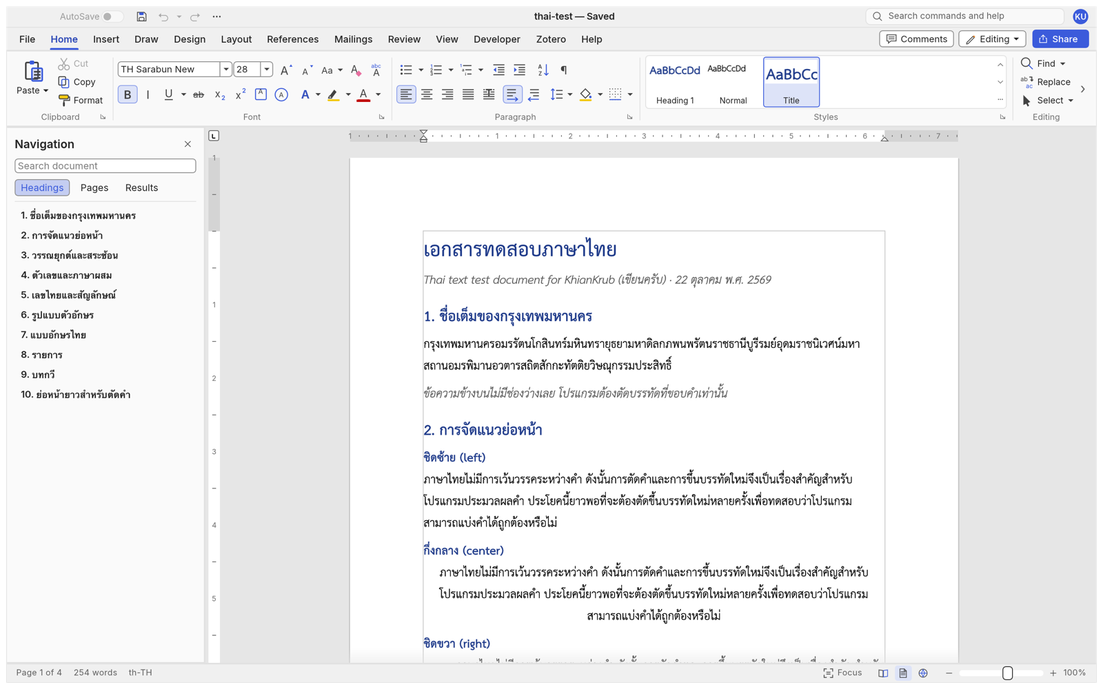
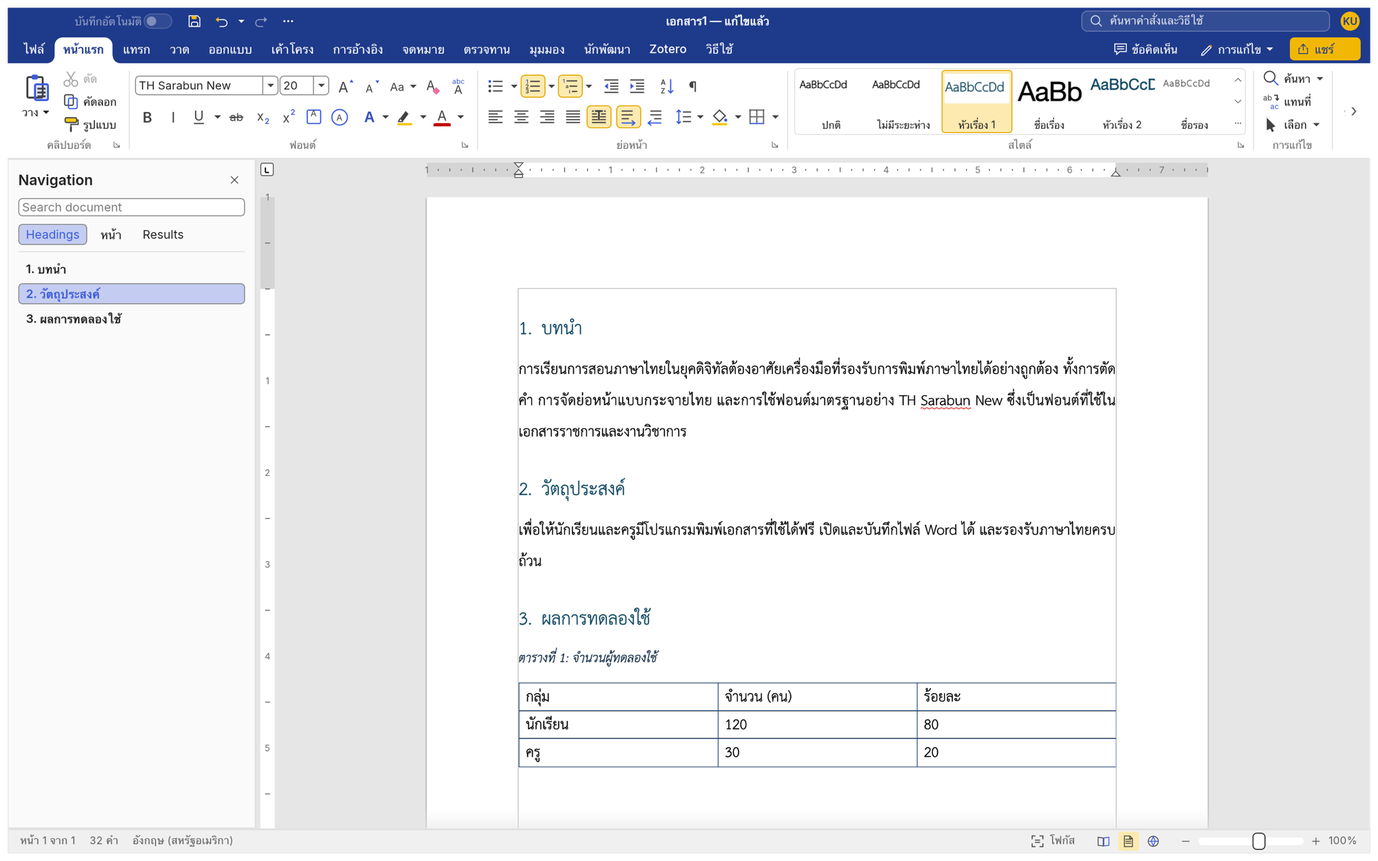
New README: what's new, with pictures
Opens with the Thai menus and the navy and gold look, then What's new
(Thai menus, new look, Modify Style, Thai captions, table borders, numbered
headings and multilevel lists, smaller changes). Older sections move under
Earlier changes, after Download and install. New screenshots with
ATTRIBUTION rows.

diff --git a/README.md b/README.md
@@ -17,12 +17,79 @@
 </p>
 
 <p align="center">
-  <img src="docs/images/khiankrub-hero.png" alt="KhianKrub with a Thai test document open: the Home tab of the ribbon, the Navigation pane listing the document's Thai headings, and a page with Thai text in TH Sarabun New" width="100%">
+  <img src="docs/images/khiankrub-hero.png" alt="KhianKrub with Thai menus: a navy title bar and tab strip with Thai tab names, the white Home ribbon with gold highlights, the Navigation pane listing numbered Thai headings 1. บทนำ, 2. วัตถุประสงค์, 3. ผลการทดลองใช้, and a page in TH Sarabun New with a table captioned ตารางที่ 1" width="100%">
 </p>
 
 KhianKrub is a fork of [WordCraft](https://github.com/storytold/wordcraft) by the ArtCraft team, adapted for Thai
 users by Chanon Sarasuk. It opens, edits and saves Word documents (`.docx`), with a ribbon laid out like Microsoft
-Word's, and adds what Thai writing needs. It is not affiliated with or endorsed by the ArtCraft team.
+Word's, and adds what Thai writing needs. It is made with schools in mind: students and teachers who need a free
+program for reports, worksheets and theses in Thai. It is not affiliated with or endorsed by the ArtCraft team.
+
+This is a one-person project and still young. If something doesn't work, please
+[open an issue](https://github.com/chanonss/khiankrub/issues); every report helps.
+
+โปรแกรมนี้ทำขึ้นเพื่อนักเรียน นักศึกษา และครู ที่ต้องการโปรแกรมพิมพ์เอกสารภาษาไทยที่ใช้ได้ฟรี ยังอยู่ระหว่างพัฒนา
+หากพบปัญหา แจ้งได้ที่หน้า [Issues](https://github.com/chanonss/khiankrub/issues) ขอบคุณทุกความคิดเห็นครับ
+
+## What's new
+
+### Thai menus
+
+The ribbon, the title bar, the File page and the right-click menus can be in Thai. Choose **ไทย** in
+File › Options › Language › Interface language; on a Mac or PC set to Thai, KhianKrub opens in Thai by itself.
+Dialogs are still in English for now.
+
+<p align="center">
+  <img src="docs/images/khiankrub-ribbon-th.png" alt="The Home ribbon in Thai: tabs ไฟล์, หน้าแรก, แทรก, วาด, ออกแบบ, เค้าโครง, การอ้างอิง and the groups คลิปบอร์ด, ฟอนต์, ย่อหน้า, สไตล์" width="100%">
+  <img src="docs/images/khiankrub-ribbon-en.png" alt="The same Home ribbon in English: File, Home, Insert, Draw, Design, Layout, References and the groups Clipboard, Font, Paragraph, Styles" width="100%">
+</p>
+
+### A new look: navy and gold
+
+The title bar and tabs are in KhianKrub's navy, from the app icon. The active tab joins the white ribbon with curved
+corners, and buttons light up in the icon's gold when you point at them or turn them on. The dark theme follows the
+same colours.
+
+<p align="center">
+  <img src="docs/images/khiankrub-dark.png" alt="KhianKrub in the dark theme, with Thai menus, the Navigation pane and a Thai document" width="100%">
+</p>
+
+### Styles for Thai documents
+
+<table>
+<tr>
+<td width="62%" valign="top"><img src="docs/images/khiankrub-modify-style.png" alt="The Modify Style window: a list of pages with icons (General, Font, Font Effects, Position, Indents and Spacing, Alignment, Text Flow, Tabs, Borders and Shading, Numbering), the Font page with Latin text and Thai text side by side, a preview, and OK, Apply and Cancel" width="100%"><p align="center"><sub><b>Modify Style</b>, redesigned with ten pages. The font and size for Latin and Thai text side by side, so a heading can be TH Sarabun New 18 pt in Thai. <b>Apply</b> shows the change without closing the window.</sub></p></td>
+<td width="38%" valign="top"><img src="docs/images/khiankrub-caption.png" alt="The Caption window with the label ภาพที่ and the caption ภาพที่ 1" width="100%"><p align="center"><sub><b>Thai captions:</b> ภาพที่ and ตารางที่ are ready to use for pictures and tables.</sub></p>
+<img src="docs/images/khiankrub-borders-menu.png" alt="Table Design, Borders menu with a picture of each border, including Diagonal Down Border and Diagonal Up Border, the pointed item lit in gold" width="100%"><p align="center"><sub><b>Table borders</b> with a picture for each, now with diagonal lines, applied to the selected cells.</sub></p></td>
+</tr>
+</table>
+
+### Numbered headings and multilevel lists
+
+<table>
+<tr>
+<td width="45%" valign="top"><img src="docs/images/khiankrub-define-list.png" alt="The Define New Multilevel List window: levels 1 to 9, a preview, number format, Link level to style, font, position, and a name with Save in My Lists" width="100%"></td>
+<td width="55%" valign="top">
+
+- **Link level to style:** Heading 1 numbers itself (1., 2., 3.) and the number takes the heading's look.
+- **My Lists:** name a list you made and use it again in any document.
+- The **Navigation pane** shows each heading with its number, as on the page.
+- **Backspace or Delete** at the start of a numbered line removes the number and returns to Normal.
+
+</td>
+</tr>
+</table>
+
+### Smaller changes
+
+- **TH Sarabun New** is the default font for new documents. If it isn't installed, KhianKrub offers the free
+  download page.
+- **Header and Footer** styles in the Styles gallery.
+- **Thai Distribution** on the floating formatting bar that appears over selected text.
+- **Several windows:** open more than one document at a time, each in its own window.
+- Opening a file goes straight to the document; the Recover panel no longer gets in the way.
+- **Windows and Mac downloads are built on GitHub.** The Mac download is one app for both Apple silicon and Intel
+  Macs, from the next release on.
 
 ## Made for Thai
 
@@ -32,8 +99,8 @@ Word's, and adds what Thai writing needs. It is not affiliated with or endorsed 
 <td width="50%" valign="top"><img src="docs/images/khiankrub-thai-lists.png" alt="Lists numbered with bullets, Thai digits ๑ ๒ ๓ ๔ and Thai letters ก ข ค" width="100%"><p align="center"><sub><b>Thai list numbering.</b> Thai digits (๑ ๒ ๓), Thai letters (ก ข ค) and Thai counting words, matching Word.</sub></p></td>
 </tr>
 <tr>
-<td width="50%" valign="top"><img src="docs/images/khiankrub-page-thumbnails.png" alt="The Navigation pane's Pages tab with a thumbnail of each page, the first outlined in blue" width="100%"><p align="center"><sub><b>Navigation.</b> Thai headings and page thumbnails; click one to go there.</sub></p></td>
-<td width="50%" valign="top"><img src="docs/images/khiankrub-file-menu.png" alt="The File menu: a blue sidebar with an icon beside each entry, and template thumbnails" width="100%"><p align="center"><sub><b>File menu.</b> New, open, recover, save, print and export to PDF.</sub></p></td>
+<td width="50%" valign="top"><img src="docs/images/khiankrub-page-thumbnails.png" alt="The Navigation pane's Pages tab with a thumbnail of each page" width="100%"><p align="center"><sub><b>Navigation.</b> Thai headings and page thumbnails; click one to go there.</sub></p></td>
+<td width="50%" valign="top"><img src="docs/images/khiankrub-file-menu.png" alt="The File menu: a sidebar with an icon beside each entry, and template thumbnails" width="100%"><p align="center"><sub><b>File menu.</b> New, open, recover, save, print and export to PDF.</sub></p></td>
 </tr>
 </table>
 
@@ -42,107 +109,17 @@ Word's, and adds what Thai writing needs. It is not affiliated with or endorsed 
 - **Thai list numbers, letters and counting words** in lists and page numbers.
 - **Text boundaries:** a thin grey outline around the text area of each page (View › Show › Text Boundaries).
 - **View only** mode in the Editing menu: read a document without changing it by accident.
-- **Thai menus** (File › Options › Language): the ribbon, the File page and right-click menus in Thai; dialogs are
-  still in English. Thai text in documents, Thai fonts and Thai typing fully supported.
+- Thai text in documents, Thai fonts and Thai typing fully supported.
 
 Everything that differs from the original, newest first, is in [FORK-CHANGES.md](FORK-CHANGES.md).
-
-## Before and after
-
-### The ribbon, sized and spaced like Word's
-
-Larger icons, and the buttons centred in each group with even spacing, on every tab.
-
-<p align="center">
-  <img src="docs/images/khiankrub-ribbon-before-after.png" alt="The Home ribbon before, with small icons sitting at the top of each group, and after, with larger icons centred in their groups" width="100%">
-</p>
-
-### Bugs fixed
-
-<table>
-<tr>
-<td width="35%" valign="top"><img src="docs/images/khiankrub-fix-navigation.png" alt="The Navigation pane before, listing Thai headings as question marks, and after, listing them in Thai" width="100%"><p align="center"><sub><b>Thai headings</b> in the Navigation pane showed as <code>?</code>; they now show in Thai.</sub></p></td>
-<td width="65%" valign="top"><img src="docs/images/khiankrub-fix-space-dots.png" alt="Thai text with formatting marks on: before, the dot for each space floats near the top of the letters; after, it sits in the middle" width="100%"><p align="center"><sub><b>Space marks on Thai text</b> (with ¶ on) floated near the top of the letters; they now sit in the middle.</sub><br><br></p>
-<img src="docs/images/khiankrub-fix-paragraph-dialog.png" alt="The Paragraph dialog's Alignment box: before it shows the raw text thaidistribute, after it shows Thai Distribution" width="70%"><p align="center"><sub><b>Paragraph dialog</b> showed the raw name <code>thaidistribute</code>; it now says Thai Distribution and keeps it.</sub></p></td>
-</tr>
-<tr>
-<td colspan="2"><img src="docs/images/khiankrub-fix-recover.png" alt="File, Recover: before, a black page with a blank white button; after, the blue File sidebar with icons and readable buttons" width="100%"><p align="center"><sub><b>File › Recover</b> was black with blank white buttons in the light theme; it now follows the theme like the other File pages.</sub></p></td>
-</tr>
-</table>
-
-## More of what was added
-
-<table>
-<tr>
-<td width="62%" valign="top"><img src="docs/images/khiankrub-thai-word-breaking.png" alt="The full name of Bangkok, a long Thai word without spaces, wrapped onto a second line at a word boundary, and a long Thai paragraph wrapping between words" width="100%"><p align="center"><sub><b>Thai word breaking.</b> Lines wrap between Thai words, even in long text with no spaces at all.</sub></p>
-<img src="docs/images/khiankrub-view-only.png" alt="The Editing menu open, offering Editing, Reviewing and View only" width="100%"><p align="center"><sub><b>View only</b> in the Editing menu: read a document without changing it by accident.</sub></p></td>
-<td width="38%" valign="top"><img src="docs/images/khiankrub-shapes-menu.png" alt="Insert, Shapes menu with a small drawing beside each shape and connector name" width="100%"><p align="center"><sub><b>Insert › Shapes</b> shows a picture of each shape and connector.</sub></p></td>
-</tr>
-</table>
-
-## Newest additions
-
-### A real macOS menu bar
-
-File, Edit, Insert, Format, View, Window and Help at the top of the screen, with the usual Mac shortcuts. Each item
-runs the same command as its ribbon button or key.
-
-<p align="center">
-  <img src="docs/images/khiankrub-mac-menu-bar.png" alt="The macOS menu bar showing KhianKrub, File, Edit, Insert, Format, View, Window and Help, with the Format menu open: Font, Paragraph, Bullets and Numbering, Borders and Shading, Columns, Styles, Bold, Italic, Underline, font size, Clear Formatting and the alignments including Thai Distribution, each with its shortcut" width="60%">
-</p>
-
-### Page number at set distances from the paper's edges
-
-Insert › Page Number › **Page Number Position…** places the number, for example, 1 inch from the top edge (to its
-baseline) and 1 inch from the right edge, as theses often require. Top or bottom, left, centre or right, and no number
-on the first page if wanted. Word opens the file with the number in the same place.
-
-<table>
-<tr>
-<td width="50%" valign="top"><img src="docs/images/khiankrub-page-number-position.png" alt="The Page Number Position dialog: from the top edge, 1 inch to the baseline; right, 1 inch from the right edge; a check box for no number on the first page; and a small page preview with the number at the top right" width="100%"><p align="center"><sub>The dialog, with a preview of where the number goes.</sub></p></td>
-<td width="50%" valign="top"><img src="docs/images/khiankrub-page-number-result.png" alt="The top right corner of a page at 150 percent zoom: the page number 1 with red arrows showing 1 inch from the top edge to its baseline and 1 inch from its right end to the right edge" width="100%"><p align="center"><sub>The result, measured: 1 in from the top edge and 1 in from the right edge.</sub></p></td>
-</tr>
-</table>
-
-### Page breaks like Word's
-
-Insert › Page Break (or ⌘Enter) moves the cursor to the next page, so what you type next goes there. With formatting
-marks on, a page break shows as a dotted line with **Page Break** in the middle.
-
-<table>
-<tr>
-<td width="50%" valign="top"><img src="docs/images/khiankrub-page-break.png" alt="Two pages side by side: page 1 has the word One and a dotted Page Break line; page 2 starts with Two, typed after the break, with the cursor" width="100%"><p align="center"><sub>"One", the break, then "Two" typed on page 2.</sub></p></td>
-<td width="50%" valign="top"><img src="docs/images/khiankrub-break-label.png" alt="A Thai document with formatting marks on: a dotted line across the page with the words Page Break in the middle" width="100%"><p align="center"><sub>The "Page Break" mark, as in Word.</sub></p></td>
-</tr>
-</table>
-
-### Hanging indent, as in Word
-
-The Paragraph dialog has **Special: (none) / First line / Hanging** and **By**, instead of a negative first-line indent.
-
-<p align="center">
-  <img src="docs/images/khiankrub-hanging-indent.png" alt="The Paragraph dialog with Indentation Left 0.89 inches and Special set to Hanging, By 0.89 inches" width="50%">
-</p>
-
-### Pictures in the menus
-
-The Layout tab's Text Direction, Orientation, Columns, Breaks and Line Numbers menus, and Insert's Table and Page
-Number menus, show a small picture of each choice. The Insert Table grid is compact, as in Word.
-
-<p align="center">
-  <img src="docs/images/khiankrub-layout-menus.png" alt="Five Layout menus side by side, each choice with a small picture: Text Direction (Horizontal, Rotate 90 and 270 degrees), Orientation (Portrait, Landscape), Columns (One, Two, Three, Left, Right, More Columns), Breaks (Page, Column, Text Wrapping and the four section breaks) and Line Numbers (None, Continuous, Restart Each Page, Restart Each Section, options)" width="100%">
-</p>
-<p align="center">
-  <img src="docs/images/khiankrub-insert-menus.png" alt="Insert, Table menu with a compact 10 by 8 grid and icons for Insert Table, Draw Table and Convert Text to Table; and Insert, Page Number menu with pictures for Top of Page, Bottom of Page, Page X of Y, Current Position, Format Page Numbers and Page Number Position" width="80%">
-</p>
 
 ## Download and install
 
 ### Mac
 
 1. Go to the [latest release](https://github.com/chanonss/khiankrub/releases/latest) and download
-   the Mac zip (under *Assets*): **KhianKrub-…-macos-universal.zip** from version 0.7.4 on,
-   **KhianKrub-…-macos-apple-silicon.zip** before.
+   the Mac zip (under *Assets*): **KhianKrub-…-macos-universal.zip** in new releases,
+   **KhianKrub-…-macos-apple-silicon.zip** in 0.7.3 and earlier.
 2. Double-click the zip to unzip it, then drag **KhianKrub** into your **Applications** folder.
 3. **First time only: right-click › Open.** The app is not signed by Apple, so macOS says it cannot verify the
    developer. Right-click (or Control-click) KhianKrub, choose **Open**, then click **Open** again. If the dialog
@@ -152,8 +129,8 @@ Number menus, show a small picture of each choice. The Insert Table grid is comp
 ดาวน์โหลดไฟล์ zip จากหน้า [Releases](https://github.com/chanonss/khiankrub/releases/latest) ดับเบิลคลิกเพื่อแตกไฟล์
 แล้วลาก KhianKrub ไปไว้ในโฟลเดอร์ Applications ครั้งแรกที่เปิดให้คลิกขวาที่แอป เลือก Open แล้วกด Open อีกครั้ง
 
-**Needs:** macOS 11 or later. From version 0.7.4 the Mac download is one app for both Apple silicon (M1 or later)
-and Intel Macs; 0.7.3 and earlier run on Apple silicon only.
+**Needs:** macOS 11 or later. After 0.7.3 the Mac download is one app for both Apple silicon (M1 or later) and
+Intel Macs; 0.7.3 and earlier run on Apple silicon only.
 
 ### Windows
 
@@ -173,6 +150,99 @@ To use it without installing, download **khiankrub-…-windows-x64-portable.zip*
 as on the Mac, except the menu bar at the top of the screen, which is a macOS feature.
 
 On both, Thai text looks best with a Thai font installed, such as TH Sarabun New.
+
+## Earlier changes
+
+Changes from earlier versions.
+
+### Before and after
+
+#### The ribbon, sized and spaced like Word's
+
+Larger icons, and the buttons centred in each group with even spacing, on every tab.
+
+<p align="center">
+  <img src="docs/images/khiankrub-ribbon-before-after.png" alt="The Home ribbon before, with small icons sitting at the top of each group, and after, with larger icons centred in their groups" width="100%">
+</p>
+
+#### Bugs fixed
+
+<table>
+<tr>
+<td width="35%" valign="top"><img src="docs/images/khiankrub-fix-navigation.png" alt="The Navigation pane before, listing Thai headings as question marks, and after, listing them in Thai" width="100%"><p align="center"><sub><b>Thai headings</b> in the Navigation pane showed as <code>?</code>; they now show in Thai.</sub></p></td>
+<td width="65%" valign="top"><img src="docs/images/khiankrub-fix-space-dots.png" alt="Thai text with formatting marks on: before, the dot for each space floats near the top of the letters; after, it sits in the middle" width="100%"><p align="center"><sub><b>Space marks on Thai text</b> (with ¶ on) floated near the top of the letters; they now sit in the middle.</sub><br><br></p>
+<img src="docs/images/khiankrub-fix-paragraph-dialog.png" alt="The Paragraph dialog's Alignment box: before it shows the raw text thaidistribute, after it shows Thai Distribution" width="70%"><p align="center"><sub><b>Paragraph dialog</b> showed the raw name <code>thaidistribute</code>; it now says Thai Distribution and keeps it.</sub></p></td>
+</tr>
+<tr>
+<td colspan="2"><img src="docs/images/khiankrub-fix-recover.png" alt="File, Recover: before, a black page with a blank white button; after, the blue File sidebar with icons and readable buttons" width="100%"><p align="center"><sub><b>File › Recover</b> was black with blank white buttons in the light theme; it now follows the theme like the other File pages.</sub></p></td>
+</tr>
+</table>
+
+### More of what was added
+
+<table>
+<tr>
+<td width="62%" valign="top"><img src="docs/images/khiankrub-thai-word-breaking.png" alt="The full name of Bangkok, a long Thai word without spaces, wrapped onto a second line at a word boundary, and a long Thai paragraph wrapping between words" width="100%"><p align="center"><sub><b>Thai word breaking.</b> Lines wrap between Thai words, even in long text with no spaces at all.</sub></p>
+<img src="docs/images/khiankrub-view-only.png" alt="The Editing menu open, offering Editing, Reviewing and View only" width="100%"><p align="center"><sub><b>View only</b> in the Editing menu: read a document without changing it by accident.</sub></p></td>
+<td width="38%" valign="top"><img src="docs/images/khiankrub-shapes-menu.png" alt="Insert, Shapes menu with a small drawing beside each shape and connector name" width="100%"><p align="center"><sub><b>Insert › Shapes</b> shows a picture of each shape and connector.</sub></p></td>
+</tr>
+</table>
+
+### Earlier additions
+
+#### A real macOS menu bar
+
+File, Edit, Insert, Format, View, Window and Help at the top of the screen, with the usual Mac shortcuts. Each item
+runs the same command as its ribbon button or key.
+
+<p align="center">
+  <img src="docs/images/khiankrub-mac-menu-bar.png" alt="The macOS menu bar showing KhianKrub, File, Edit, Insert, Format, View, Window and Help, with the Format menu open: Font, Paragraph, Bullets and Numbering, Borders and Shading, Columns, Styles, Bold, Italic, Underline, font size, Clear Formatting and the alignments including Thai Distribution, each with its shortcut" width="60%">
+</p>
+
+#### Page number at set distances from the paper's edges
+
+Insert › Page Number › **Page Number Position…** places the number, for example, 1 inch from the top edge (to its
+baseline) and 1 inch from the right edge, as theses often require. Top or bottom, left, centre or right, and no number
+on the first page if wanted. Word opens the file with the number in the same place.
+
+<table>
+<tr>
+<td width="50%" valign="top"><img src="docs/images/khiankrub-page-number-position.png" alt="The Page Number Position dialog: from the top edge, 1 inch to the baseline; right, 1 inch from the right edge; a check box for no number on the first page; and a small page preview with the number at the top right" width="100%"><p align="center"><sub>The dialog, with a preview of where the number goes.</sub></p></td>
+<td width="50%" valign="top"><img src="docs/images/khiankrub-page-number-result.png" alt="The top right corner of a page at 150 percent zoom: the page number 1 with red arrows showing 1 inch from the top edge to its baseline and 1 inch from its right end to the right edge" width="100%"><p align="center"><sub>The result, measured: 1 in from the top edge and 1 in from the right edge.</sub></p></td>
+</tr>
+</table>
+
+#### Page breaks like Word's
+
+Insert › Page Break (or ⌘Enter) moves the cursor to the next page, so what you type next goes there. With formatting
+marks on, a page break shows as a dotted line with **Page Break** in the middle.
+
+<table>
+<tr>
+<td width="50%" valign="top"><img src="docs/images/khiankrub-page-break.png" alt="Two pages side by side: page 1 has the word One and a dotted Page Break line; page 2 starts with Two, typed after the break, with the cursor" width="100%"><p align="center"><sub>"One", the break, then "Two" typed on page 2.</sub></p></td>
+<td width="50%" valign="top"><img src="docs/images/khiankrub-break-label.png" alt="A Thai document with formatting marks on: a dotted line across the page with the words Page Break in the middle" width="100%"><p align="center"><sub>The "Page Break" mark, as in Word.</sub></p></td>
+</tr>
+</table>
+
+#### Hanging indent, as in Word
+
+The Paragraph dialog has **Special: (none) / First line / Hanging** and **By**, instead of a negative first-line indent.
+
+<p align="center">
+  <img src="docs/images/khiankrub-hanging-indent.png" alt="The Paragraph dialog with Indentation Left 0.89 inches and Special set to Hanging, By 0.89 inches" width="50%">
+</p>
+
+#### Pictures in the menus
+
+The Layout tab's Text Direction, Orientation, Columns, Breaks and Line Numbers menus, and Insert's Table and Page
+Number menus, show a small picture of each choice. The Insert Table grid is compact, as in Word.
+
+<p align="center">
+  <img src="docs/images/khiankrub-layout-menus.png" alt="Five Layout menus side by side, each choice with a small picture: Text Direction (Horizontal, Rotate 90 and 270 degrees), Orientation (Portrait, Landscape), Columns (One, Two, Three, Left, Right, More Columns), Breaks (Page, Column, Text Wrapping and the four section breaks) and Line Numbers (None, Continuous, Restart Each Page, Restart Each Section, options)" width="100%">
+</p>
+<p align="center">
+  <img src="docs/images/khiankrub-insert-menus.png" alt="Insert, Table menu with a compact 10 by 8 grid and icons for Insert Table, Draw Table and Convert Text to Table; and Insert, Page Number menu with pictures for Top of Page, Bottom of Page, Page X of Y, Current Position, Format Page Numbers and Page Number Position" width="80%">
+</p>
 
 ## Build it yourself
 

diff --git a/ATTRIBUTION.md b/ATTRIBUTION.md
@@ -56,6 +56,13 @@ Generated-in-code art is original and has no file to list: the UI icon set (`cra
 | `docs/images/references.png` | WordCraft contributors | screenshot of WordCraft itself (sample document written for WordCraft, rendered by `ui_shot`) | MIT OR Apache-2.0 | Original; no Microsoft UI or assets |
 | `docs/images/hero.png` | WordCraft contributors | screenshot of WordCraft itself (sample document written for WordCraft, rendered by `ui_shot`) | MIT OR Apache-2.0 | Original; no Microsoft UI or assets |
 | `docs/images/khiankrub-hero.png` | Chanon Sarasuk | screenshot of KhianKrub with the Thai test document (Thai test document written for this fork, rendered by `ui_shot`) | MIT OR Apache-2.0 | Original; no Microsoft UI or assets |
+| `docs/images/khiankrub-dark.png` | Chanon Sarasuk | screenshot of KhianKrub: the dark theme with Thai menus (Thai sample written for this fork, rendered by a `ui_shot`-style harness) | MIT OR Apache-2.0 | Original; no Microsoft UI or assets |
+| `docs/images/khiankrub-ribbon-th.png` | Chanon Sarasuk | screenshot of KhianKrub: the Home ribbon with Thai menus (rendered by a `ui_shot`-style harness) | MIT OR Apache-2.0 | Original; no Microsoft UI or assets |
+| `docs/images/khiankrub-ribbon-en.png` | Chanon Sarasuk | screenshot of KhianKrub: the Home ribbon in English (rendered by a `ui_shot`-style harness) | MIT OR Apache-2.0 | Original; no Microsoft UI or assets |
+| `docs/images/khiankrub-modify-style.png` | Chanon Sarasuk | screenshot of KhianKrub: the Modify Style window (Thai test document written for this fork, rendered by a `ui_shot`-style harness) | MIT OR Apache-2.0 | Original; no Microsoft UI or assets |
+| `docs/images/khiankrub-define-list.png` | Chanon Sarasuk | screenshot of KhianKrub: the Define New Multilevel List window (rendered by a `ui_shot`-style harness) | MIT OR Apache-2.0 | Original; no Microsoft UI or assets |
+| `docs/images/khiankrub-caption.png` | Chanon Sarasuk | screenshot of KhianKrub: the Caption window with the Thai label ภาพที่ (rendered by a `ui_shot`-style harness) | MIT OR Apache-2.0 | Original; no Microsoft UI or assets |
+| `docs/images/khiankrub-borders-menu.png` | Chanon Sarasuk | screenshot of KhianKrub: the Table Design Borders menu (rendered by a `ui_shot`-style harness) | MIT OR Apache-2.0 | Original; no Microsoft UI or assets |
 | `docs/images/khiankrub-thai-distribution.png` | Chanon Sarasuk | screenshot of KhianKrub: Justify and Thai Distributed paragraphs (Thai test document written for this fork, rendered by `ui_shot`) | MIT OR Apache-2.0 | Original; no Microsoft UI or assets |
 | `docs/images/khiankrub-thai-lists.png` | Chanon Sarasuk | screenshot of KhianKrub: Thai list numbering (Thai test document written for this fork, rendered by `ui_shot`) | MIT OR Apache-2.0 | Original; no Microsoft UI or assets |
 | `docs/images/khiankrub-page-thumbnails.png` | Chanon Sarasuk | screenshot of KhianKrub: Navigation pane page thumbnails (Thai test document written for this fork, rendered by `ui_shot`) | MIT OR Apache-2.0 | Original; no Microsoft UI or assets |

diff --git a/FORK-CHANGES.md b/FORK-CHANGES.md
@@ -7,6 +7,13 @@ progress notes are in `ROADMAP.md` and `docs/`; they are not edited here. Each e
 
 ## 2026-10-25
 
+### New README
+- The README opens with the new look (Thai menus, navy and gold) and a "What's new" section with pictures: Thai
+  menus beside the English ones, the dark theme, Modify Style, Thai captions, the Borders menu and Define New
+  Multilevel List, then a list of smaller changes. The older sections are kept under "Earlier changes", after
+  Download and install. A short note in English and Thai asks for bug reports.
+- New screenshots in `docs/images` (`khiankrub-hero.png` replaced), each with an ATTRIBUTION.md row.
+
 ### Curved corners where the active tab meets the ribbon
 - The active tab's bottom corners curve outward into the ribbon, with the same radius as its rounded top
   corners, so the tab and the ribbon read as one shape. Light and dark themes alike. All four corners are 8 pt
